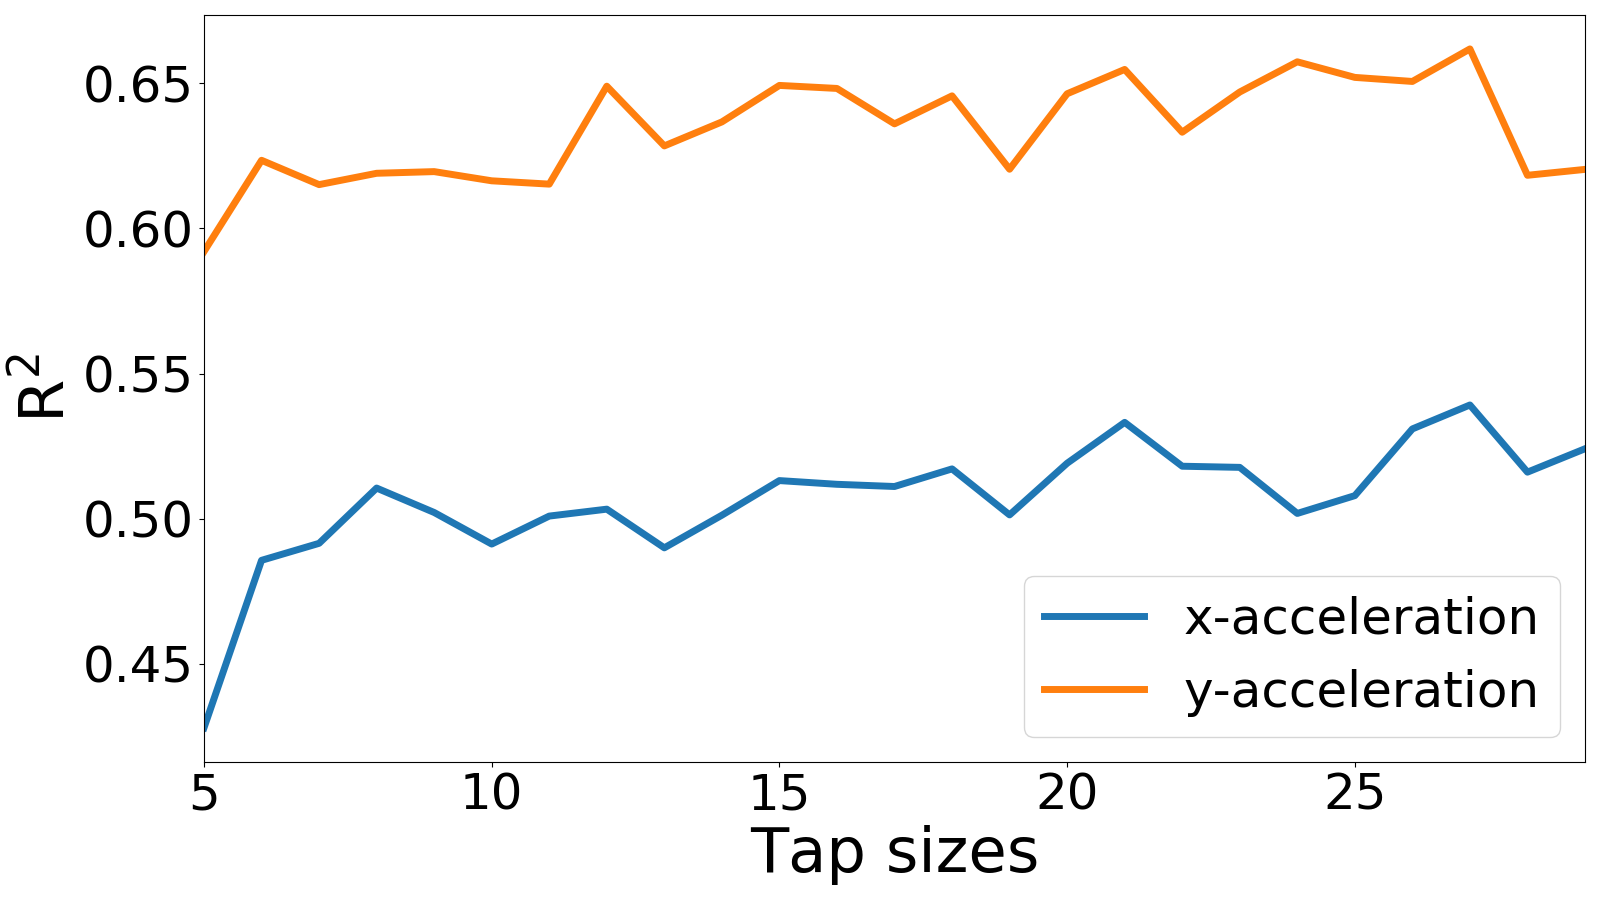
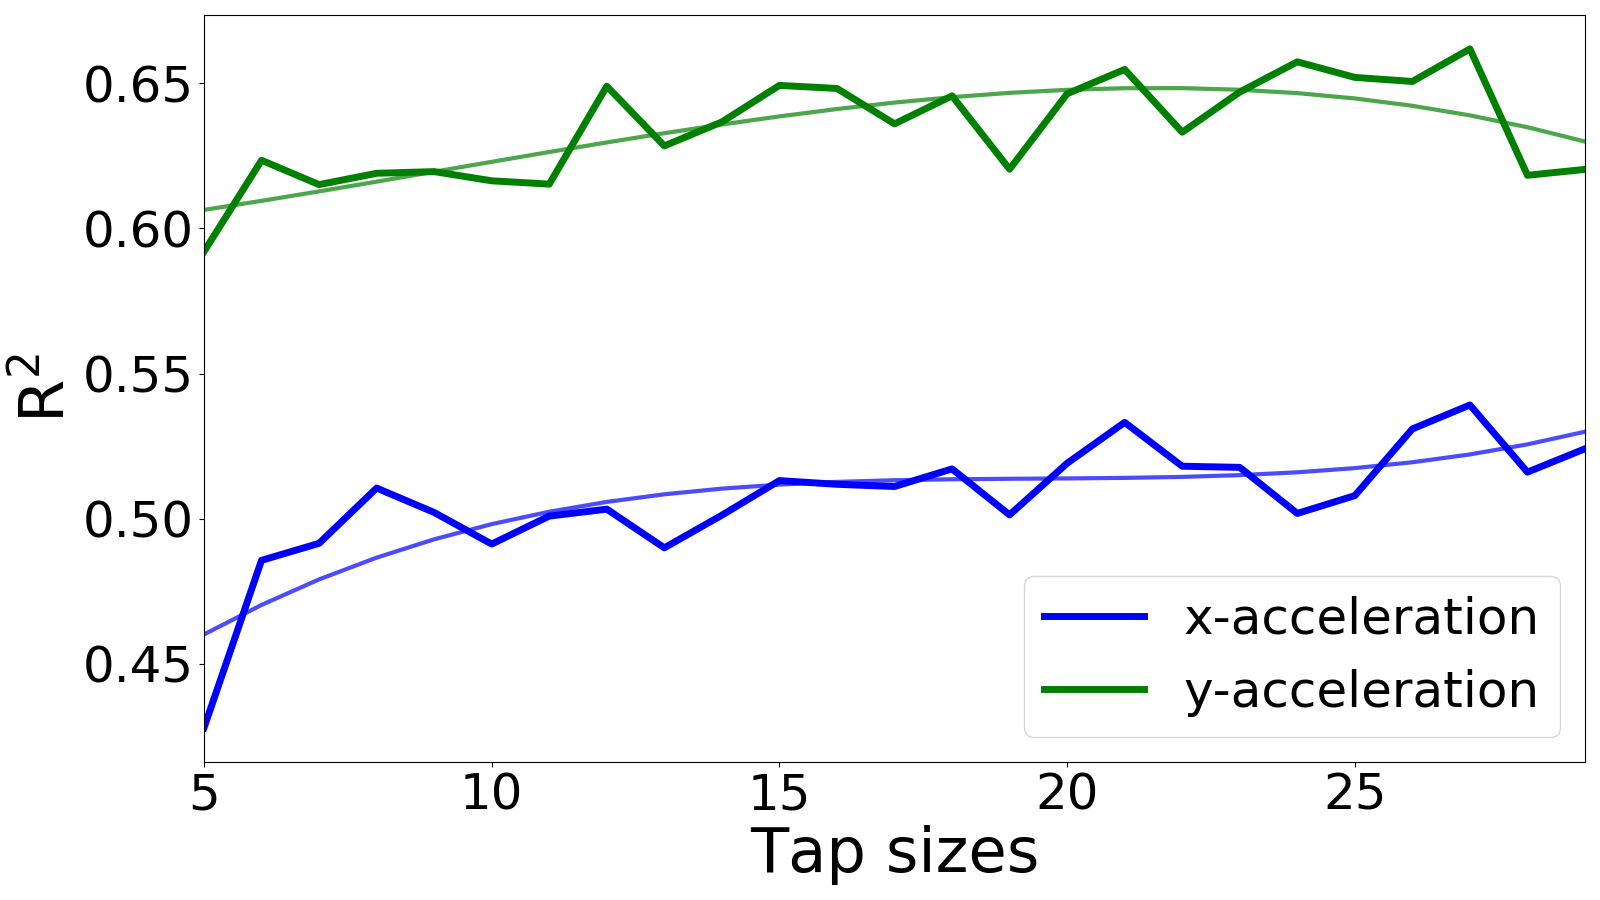
new tap

diff --git a/Python_code/Read_mat_file_and_Plot/tap_size_vs_performance/velocity_and_acceleration/plot_velocity_tap.py b/Python_code/Read_mat_file_and_Plot/tap_size_vs_performance/velocity_and_acceleration/plot_velocity_tap.py
@@ -2,6 +2,7 @@ import matplotlib.pyplot as plt
 import json
 import os
 import pandas as pd
+import numpy as np
 
 my_fontsize=45
 
@@ -47,8 +48,21 @@ if kinematci_types == 'x_and_y_vel':
 if kinematci_types == 'x_and_y_acc':
     x_label='x-acceleration'
     y_label='y-acceleration'
-plt.plot(tap_sizes_all, x_score_all_list, linewidth=5, label=x_label)
-plt.plot(tap_sizes_all, y_score_all_list, linewidth=5,label=y_label)
+
+plt.plot(tap_sizes_all, x_score_all_list, linewidth=5, label=x_label, color='blue')
+plt.plot(tap_sizes_all, y_score_all_list, linewidth=5, label=y_label, color='green')
+
+x_regression_a = np.polyfit(tap_sizes_all, x_score_all_list, 3)
+y_regression_a = np.polyfit(tap_sizes_all, y_score_all_list, 3)
+
+x_regression_a=np.squeeze(x_regression_a)
+y_regression_a=np.squeeze(y_regression_a)
+
+x_regression_p = np.poly1d(x_regression_a)
+y_regression_p = np.poly1d(y_regression_a)
+
+plt.plot(tap_sizes_all, x_regression_p(tap_sizes_all), linewidth=3, color='blue', alpha=0.7)
+plt.plot(tap_sizes_all, y_regression_p(tap_sizes_all), linewidth=3, color='green', alpha=0.7 )
 
 plt.xlabel('Tap sizes' , fontsize=my_fontsize)
 plt.xticks(fontsize=my_fontsize*0.8)
@@ -56,7 +70,6 @@ plt.ylabel('$\mathrm{R}^{\mathrm{2}}$', fontsize=my_fontsize )
 plt.yticks(fontsize=my_fontsize*0.8)
 plt.legend(loc='lower right', fontsize=my_fontsize*0.8 )
 plt.xlim([tap_sizes_all[0], tap_sizes_all[-1]])
-
 
 plt.tight_layout()
 if kinematci_types == 'x_and_y_pos':

diff --git a/Python_code/Pytorch/tap_size_test/GRUCell_LN_bidir_self_atten/single_37_sess_spike_GRU_pos_bidir_real_LN_self_attention.py b/Python_code/Pytorch/tap_size_test/GRUCell_LN_bidir_self_atten/single_37_sess_spike_GRU_pos_bidir_real_LN_self_attention.py
@@ -57,7 +57,7 @@ kinematic_variable_type = 'x_and_y_pos' # x_pos, y_pos, z_pos, x_vel, y_vel, z_v
 FILE_PATH = '../../../../Dataset/Sorted_Spike_Dataset/'
 ALL_List_FILE = os.listdir(FILE_PATH)
 ALL_List_FILE.sort()
-List_FILE = ALL_List_FILE[20:21]
+List_FILE = ALL_List_FILE[20:25]
 session_file_list = List_FILE
 
 # Neural Network Hyperparameters
@@ -69,8 +69,9 @@ BATCH_SIZE = 64
 HIDDEN_DIMENSION = 256
 
 # tap size study start
-tap_size_list = [5,10,15,20,25,30]
-for max_timestep in range(10, 80):
+tap_size_list = [5,10,15,20,25,30,35,40,45,50,55,60,65,70,75,80]
+for max_timestep in tap_size_list:
+
 
     model_name = 'GRU_Single_Session_2_outputs_bidir_LN_self_atten_' + str(max_timestep).rjust(2,'0')
 
@@ -565,8 +566,9 @@ for max_timestep in range(10, 80):
         attn_weight_matrix_all = np.asarray(attn_weight_matrix_all)
         print('shape of attn_weight_matrix_all= ', attn_weight_matrix_all.shape, '\n')
 
-        df = pd.DataFrame( attn_weight_matrix_all )
-        df.to_csv(os.path.join(csv_path, 'attn_weight_matrix_all.csv'), index=False, header=False)
+        if (max_timestep == int(tap_size_list[-1]) ) or (max_timestep == int(tap_size_list[-1]/2) ):
+            df = pd.DataFrame( attn_weight_matrix_all )
+            df.to_csv(os.path.join(csv_path, 'attn_weight_matrix_all.csv'), index=False, header=False)
 
         # collected firing rate
         firing_rate_collector = np.asarray(firing_rate_collector)

diff --git a/Python_code/Pytorch/tap_size_test/GRUCell_LN_bidir_self_atten/single_37_sess_spike_GRU_acc_bidir_real_LN_self_attention.py b/Python_code/Pytorch/tap_size_test/GRUCell_LN_bidir_self_atten/single_37_sess_spike_GRU_acc_bidir_real_LN_self_attention.py
@@ -57,7 +57,7 @@ kinematic_variable_type = 'x_and_y_acc' # x_pos, y_pos, z_pos, x_vel, y_vel, z_v
 FILE_PATH = '../../../../Dataset/Sorted_Spike_Dataset/'
 ALL_List_FILE = os.listdir(FILE_PATH)
 ALL_List_FILE.sort()
-List_FILE = ALL_List_FILE[20:21]
+List_FILE = ALL_List_FILE[20:25]
 session_file_list = List_FILE
 
 # Neural Network Hyperparameters
@@ -69,8 +69,9 @@ BATCH_SIZE = 64
 HIDDEN_DIMENSION = 256
 
 # tap size study start
-tap_size_list = [5,10,15,20,25,30]
-for max_timestep in range(4,50):
+tap_size_list = [5,10,15,20,25,30,35,40,45,50,55,60]
+for max_timestep in tap_size_list:
+
 
     model_name = 'GRU_Single_Session_2_outputs_bidir_LN_self_atten_' + str(max_timestep).rjust(2,'0')
 
@@ -564,8 +565,9 @@ for max_timestep in range(4,50):
         attn_weight_matrix_all = np.asarray(attn_weight_matrix_all)
         print('shape of attn_weight_matrix_all= ', attn_weight_matrix_all.shape, '\n')
 
-        df = pd.DataFrame( attn_weight_matrix_all )
-        df.to_csv(os.path.join(csv_path, 'attn_weight_matrix_all.csv'), index=False, header=False)
+        if (max_timestep == int(tap_size_list[-1]) ) or (max_timestep == int(tap_size_list[-1]/2) ):
+            df = pd.DataFrame( attn_weight_matrix_all )
+            df.to_csv(os.path.join(csv_path, 'attn_weight_matrix_all.csv'), index=False, header=False)
 
         # collected firing rate
         firing_rate_collector = np.asarray(firing_rate_collector)

diff --git a/Python_code/Pytorch/tap_size_test/GRUCell_LN_bidir_self_atten/single_37_sess_spike_GRU_vel_bidir_real_LN_self_attention.py b/Python_code/Pytorch/tap_size_test/GRUCell_LN_bidir_self_atten/single_37_sess_spike_GRU_vel_bidir_real_LN_self_attention.py
@@ -57,7 +57,7 @@ kinematic_variable_type = 'x_and_y_vel' # x_pos, y_pos, z_pos, x_vel, y_vel, z_v
 FILE_PATH = '../../../../Dataset/Sorted_Spike_Dataset/'
 ALL_List_FILE = os.listdir(FILE_PATH)
 ALL_List_FILE.sort()
-List_FILE = ALL_List_FILE[20:21]
+List_FILE = ALL_List_FILE[20:25]
 session_file_list = List_FILE
 
 # Neural Network Hyperparameters
@@ -69,8 +69,8 @@ BATCH_SIZE = 64
 HIDDEN_DIMENSION = 256
 
 # tap size study start
-tap_size_list = [5,10,15,20,25,30]
-for max_timestep in range(4,50):
+tap_size_list = [5,10,15,20,25,30,35,40,45,50,55,60]
+for max_timestep in tap_size_list:
 
     model_name = 'GRU_Single_Session_2_outputs_bidir_LN_self_atten_' + str(max_timestep).rjust(2,'0')
 
@@ -564,8 +564,9 @@ for max_timestep in range(4,50):
         attn_weight_matrix_all = np.asarray(attn_weight_matrix_all)
         print('shape of attn_weight_matrix_all= ', attn_weight_matrix_all.shape, '\n')
 
-        df = pd.DataFrame( attn_weight_matrix_all )
-        df.to_csv(os.path.join(csv_path, 'attn_weight_matrix_all.csv'), index=False, header=False)
+        if (max_timestep == int(tap_size_list[-1]) ) or (max_timestep == int(tap_size_list[-1]/2) ):
+            df = pd.DataFrame( attn_weight_matrix_all )
+            df.to_csv(os.path.join(csv_path, 'attn_weight_matrix_all.csv'), index=False, header=False)
 
         # collected firing rate
         firing_rate_collector = np.asarray(firing_rate_collector)

diff --git a/Python_code/Read_mat_file_and_Plot/tap_size_vs_performance/position/plot_position_tap.py b/Python_code/Read_mat_file_and_Plot/tap_size_vs_performance/position/plot_position_tap.py
@@ -2,6 +2,7 @@ import matplotlib.pyplot as plt
 import json
 import os
 import pandas as pd
+import numpy as np
 
 my_fontsize=45
 
@@ -47,8 +48,21 @@ if kinematci_types == 'x_and_y_vel':
 if kinematci_types == 'x_and_y_acc':
     x_label='x-acceleration'
     y_label='y-acceleration'
-plt.plot(tap_sizes_all, x_score_all_list, linewidth=5, label=x_label)
-plt.plot(tap_sizes_all, y_score_all_list, linewidth=5,label=y_label)
+
+plt.plot(tap_sizes_all, x_score_all_list, linewidth=5, label=x_label, color='blue')
+plt.plot(tap_sizes_all, y_score_all_list, linewidth=5, label=y_label, color='green')
+
+x_regression_a = np.polyfit(tap_sizes_all, x_score_all_list, 3)
+y_regression_a = np.polyfit(tap_sizes_all, y_score_all_list, 3)
+
+x_regression_a=np.squeeze(x_regression_a)
+y_regression_a=np.squeeze(y_regression_a)
+
+x_regression_p = np.poly1d(x_regression_a)
+y_regression_p = np.poly1d(y_regression_a)
+
+plt.plot(tap_sizes_all, x_regression_p(tap_sizes_all), linewidth=3, color='blue', alpha=0.7)
+plt.plot(tap_sizes_all, y_regression_p(tap_sizes_all), linewidth=3, color='green', alpha=0.7 )
 
 plt.xlabel('Tap sizes' , fontsize=my_fontsize)
 plt.xticks(fontsize=my_fontsize*0.8)

diff --git a/Python_code/Read_mat_file_and_Plot/tap_size_vs_performance/velocity_and_acceleration/plot_acceleration_tap.py b/Python_code/Read_mat_file_and_Plot/tap_size_vs_performance/velocity_and_acceleration/plot_acceleration_tap.py
@@ -2,6 +2,7 @@ import matplotlib.pyplot as plt
 import json
 import os
 import pandas as pd
+import numpy as np
 
 my_fontsize=45
 
@@ -47,8 +48,21 @@ if kinematci_types == 'x_and_y_vel':
 if kinematci_types == 'x_and_y_acc':
     x_label='x-acceleration'
     y_label='y-acceleration'
-plt.plot(tap_sizes_all, x_score_all_list, linewidth=5, label=x_label)
-plt.plot(tap_sizes_all, y_score_all_list, linewidth=5,label=y_label)
+
+plt.plot(tap_sizes_all, x_score_all_list, linewidth=5, label=x_label, color='blue')
+plt.plot(tap_sizes_all, y_score_all_list, linewidth=5, label=y_label, color='green')
+
+x_regression_a = np.polyfit(tap_sizes_all, x_score_all_list, 3)
+y_regression_a = np.polyfit(tap_sizes_all, y_score_all_list, 3)
+
+x_regression_a=np.squeeze(x_regression_a)
+y_regression_a=np.squeeze(y_regression_a)
+
+x_regression_p = np.poly1d(x_regression_a)
+y_regression_p = np.poly1d(y_regression_a)
+
+plt.plot(tap_sizes_all, x_regression_p(tap_sizes_all), linewidth=3, color='blue', alpha=0.7)
+plt.plot(tap_sizes_all, y_regression_p(tap_sizes_all), linewidth=3, color='green', alpha=0.7 )
 
 plt.xlabel('Tap sizes' , fontsize=my_fontsize)
 plt.xticks(fontsize=my_fontsize*0.8)
